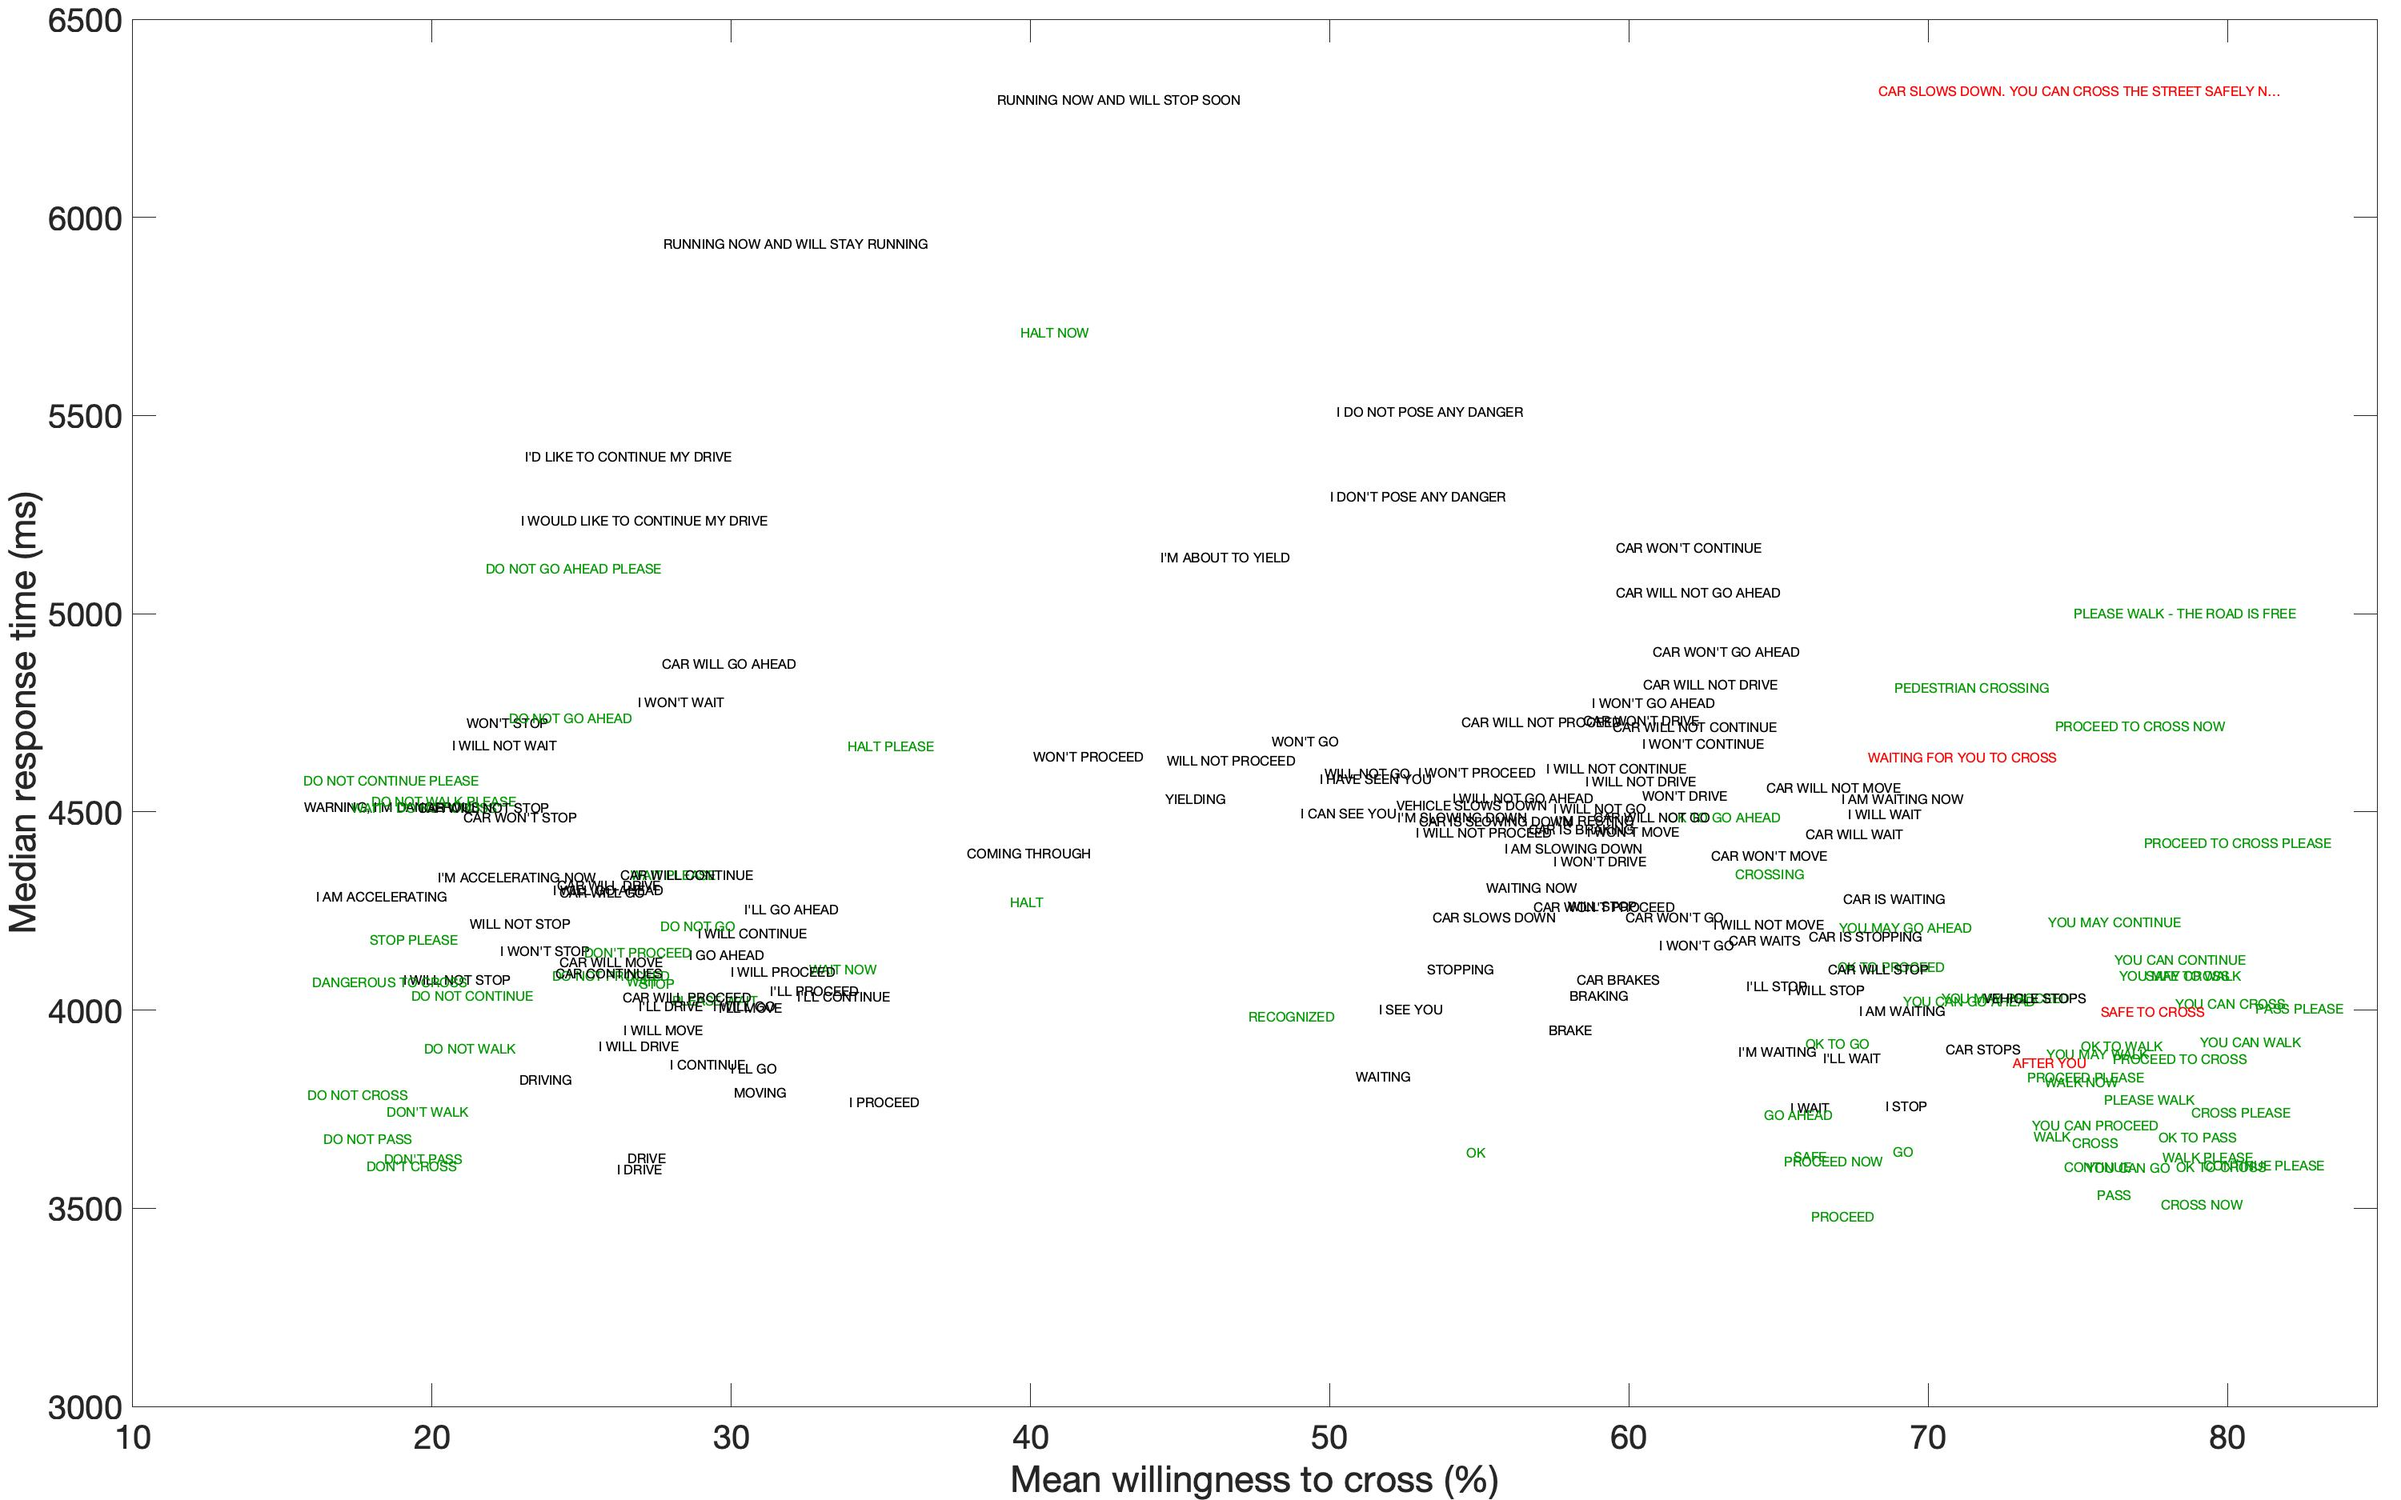
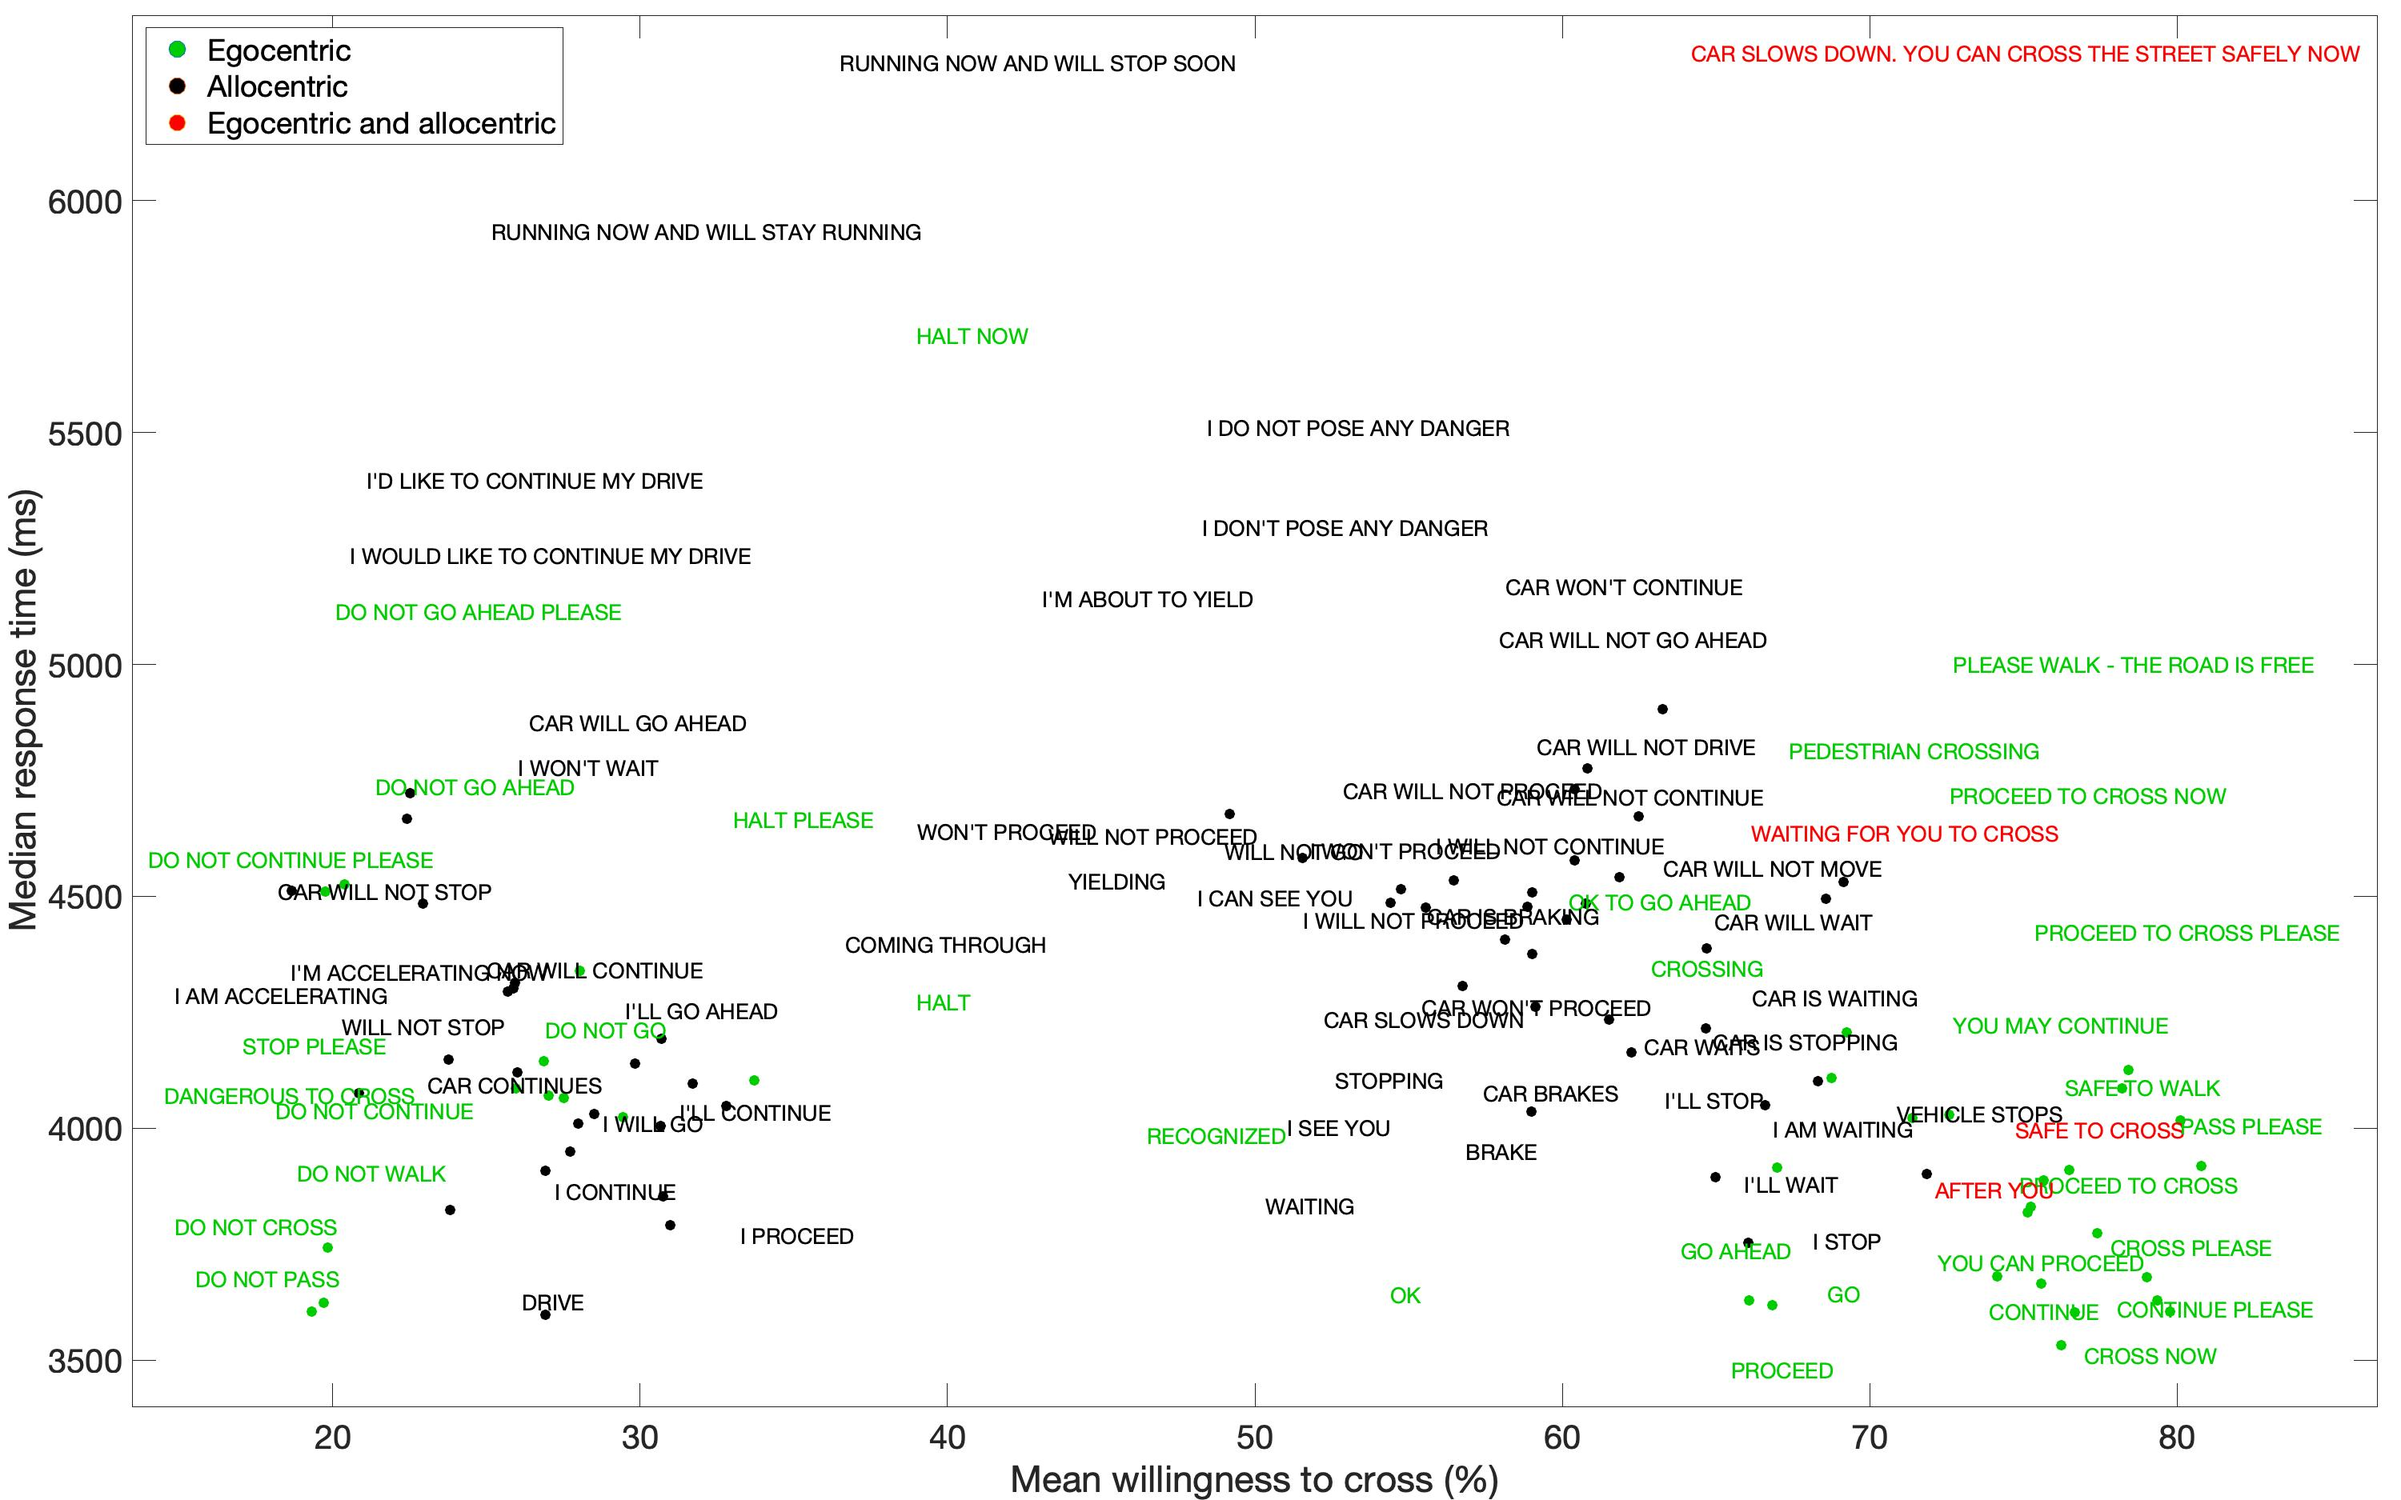
Formatting and updated figures

diff --git a/textehmi/analysis/analysis.m b/textehmi/analysis/analysis.m
@@ -62,6 +62,7 @@ mapping = readtable(config.mapping);
 %% ************************************************************************
 set(0, 'DefaultFigurePosition', [5 60  1920/2 1080/2]);
 opengl hardware
+
 %% Prepare data
 RT = X(:, 27:106);       % time used to press the key
 RP = X(:, 107:186);      % response from the slider
@@ -74,7 +75,6 @@ for i=1:size(RP,1) % loop over pp
     RPo(i,imageid(i,:)+1)=RP(i,:);
     RTo(i,imageid(i,:)+1)=RT(i,:);
 end
-
 % Median willingness to cross
 [RPoMed,RPoMedVE,RPoMedUS,RToMedVE,RToMedUS]=deal(NaN(N_STIMULI,1));
 for i=1:size(RPo,2)
@@ -91,7 +91,6 @@ for i=1:size(RPo,2)
 end
 [RPoMedSorted,b]=sort(RPoMed);
 eHMI_text_MedSorted=char(eHMI_text{b,:});
-
 % Mean willingness to cross
 [RPoMean,RPoMeanVE,RPoMeanUS,RToMeanVE,RToMeanUS,o,NN]=deal(NaN(N_STIMULI,1));
 for i=1:size(RPo,2)
@@ -108,7 +107,6 @@ for i=1:size(RPo,2)
 end
 [RPoMeanSorted,b]=sort(RPoMean);
 eHMI_text_MeanSorted=char(eHMI_text{b,:});
-
 % STD willingness to cross
 RPoSTD=deal(NaN(N_STIMULI,1));
 for i=1:size(RPo,2)
@@ -116,7 +114,6 @@ for i=1:size(RPo,2)
 end
 [RPoSTDSorted, bs]=sort(RPoSTD);
 eHMI_text_STDSorted=char(eHMI_text{bs,:});
-
 % Types of eHMIs
 ego=find(mapping{:,7}==1 & mapping{:,8}==0);
 allo=find(mapping{:,7}==0 & mapping{:,8}==1);
@@ -163,12 +160,12 @@ set(gca, 'xlim', [-1 N_STIMULI+1], ...
     'tickdir', 'out', ...
     'ylim', [0 100], ...
     'xtick', [1:1:N_STIMULI], ...
-    'xticklabel', eHMI_text_MedSorted)
+    'xticklabel', eHMI_text_MedSorted, ...
+    'LooseInset',[0.01 0.01 0.01 0.01])
 xlabel('eHMI');
 ylabel('Median willingness to cross (%)')
 h=findobj('FontName','Helvetica');
 set(h,'FontSize',8,'Fontname','Arial')
-set(gca,'LooseInset',[0.01 0.01 0.01 0.01])
 % maximise and export as eps and jpg (for readme)
 if config.save_figures
     export_figure(gcf, [config.path_output filesep 'figures' ...
@@ -230,7 +227,8 @@ if config.save_figures
     export_figure(gcf, [config.path_figures filesep 'mean-cross'], 'jpg')
 end
 
-%% Text scatter plot of English-text eHMIs. Mean willingness to cross and median response time
+%% Text scatter plot of English-text eHMIs. Mean willingness to cross vs
+% median response time
 figure;hold on;box on
 cd=NaN(size(RPo,2),3);
 cd(ego,:)=repmat([0 0.8 0], length(ego), 1);
@@ -253,7 +251,8 @@ set(gca, 'Fontsize', 20, ...
     'LooseInset', [0.01 0.01 0.01 0.01], ...
     'xlim', [13.5 86.5], ...
     'ylim', [3400 6400])
-legend('Egocentric','Allocentric','Egocentric and allocentric','location','northwest')
+legend('Egocentric', 'Allocentric', 'Egocentric and allocentric', ...
+       'location','northwest')
 % maximise and export as eps and jpg (for readme)
 if config.save_figures
     export_figure(gcf, [config.path_output filesep 'figures' ...
@@ -261,7 +260,9 @@ if config.save_figures
     export_figure(gcf, [config.path_figures ...
                         filesep 'median-cross-response-time'], 'jpg')
 end
-%% Text scatter plot of English-text eHMIs. Mean vs SD willingness to cross and median response time
+
+%% Text scatter plot of English-text eHMIs. Mean vs SD willingness to cross
+% and median response time
 figure;hold on;box on
 cd=NaN(180,3);
 cd(ego,:)=repmat([0 0.8 0], length(ego), 1);
@@ -283,13 +284,14 @@ ylabel('\it{SD}\rm willingness to cross (%)');
 set(gca, 'Fontsize', 20, ...
     'LooseInset', [0.01 0.01 0.01 0.01], ...
     'xlim', [13.5 86.5])
-legend('Egocentric','Allocentric','Egocentric and allocentric','location','southwest')
+legend('Egocentric', 'Allocentric', 'Egocentric and allocentric', ...
+       'location', 'southwest')
 % maximise and export as eps and jpg (for readme)
 if config.save_figures
     export_figure(gcf, [config.path_output filesep 'figures' ...
-                        filesep 'median-cross-response-time'], 'epsc')
+                        filesep 'median-cross-sd-cross'], 'epsc')
     export_figure(gcf, [config.path_figures ...
-                        filesep 'median-cross-response-time'], 'jpg')
+                        filesep 'median-cross-sd-cross'], 'jpg')
 end
 
 %% Response time USA/VEN
@@ -319,8 +321,7 @@ xlabel('Median response time - participants from USA');
 ylabel('Median response time - participants from Venezuela');
 h=findobj('FontName', 'Helvetica');
 set(h, 'FontSize', 20, 'Fontname','Arial')
-set(gca, ...
-    'LooseInset', [0.01 0.01 0.01 0.01], ...
+set(gca, 'LooseInset', [0.01 0.01 0.01 0.01], ...
     'xlim', [2500 5500], ...
     'ylim', [3000 7000])
 % maximise and export as eps and jpg (for readme)
@@ -346,10 +347,8 @@ xlabel('Number of characters');
 ylabel('Median response time');
 h=findobj('FontName', 'Helvetica');
 set(h, 'FontSize', 20, 'Fontname', 'Arial')
-set(gca, ...
-    'LooseInset', [0.01 0.01 0.01 0.01], ...
+set(gca, 'LooseInset', [0.01 0.01 0.01 0.01], ...
     'ylim', [3000 6500])
-%axis equal
 % maximise and export as eps and jpg (for readme)
 if config.save_figures
     export_figure(gcf, [config.path_output filesep 'figures' ...
@@ -394,8 +393,7 @@ xlabel('Mean willingness to cross - eHMI in English');
 ylabel('Mean willingness to cross - eHMI in Spanish');
 h=findobj('FontName', 'Helvetica');
 set(h,'FontSize', 20, 'Fontname', 'Arial')
-set(gca, ...
-    'LooseInset', [0.01 0.01 0.01 0.01], ...
+set(gca, 'LooseInset', [0.01 0.01 0.01 0.01], ...
     'xlim', [0 100], ...
     'ylim', [0 100], ...
     'pos', [0.25 0.08 0.5 0.9])
@@ -409,7 +407,6 @@ end
 
 %% Correlation matrix and plot
 % fetch relevant columns from X for correlation matrix 
-
 CMATR = X(:,[2:4 6:17]);
 % compute correlations
 [c_CMATR, p_CMATR] = corr(CMATR, 'type', 'spearman', 'rows', 'pairwise');

diff --git a/README.md b/README.md
@@ -39,7 +39,10 @@ Data from appen is anonymised in the following way:
 Figures are saved in `text-crowdsourced/_output/figures`.
 
 ![median willingness to cross response time](https://github.com/bazilinskyy/text-crowdsourced/blob/main/figures/median-cross-response-time.jpg?raw=true)
-Median willingness to cross over median response time. Colours denote the type of eHMIs: black=allocentric, green=egocentric, red=other.
+Median willingness to cross over median response time. Colours denote the type of eHMIs: green=egocentric, black=allocentric, red=egocentric and allocentric.
+
+![median willingness to cross sd willingness to cross](https://github.com/bazilinskyy/text-crowdsourced/blob/main/figures/median-cross-sd-cross.jpg?raw=true)
+Median willingness to cross over SD willingness to cross. Colours denote the type of eHMIs: green=egocentric, black=allocentric, red=egocentric and allocentric.
 
 ![ehmis in english and spanish](https://github.com/bazilinskyy/text-crowdsourced/blob/main/figures/median-cross-en-es.jpg?raw=true)
 Median willingness to cross for eHMIs presented in both English and Spanish.
@@ -62,7 +65,7 @@ Median willingness related to the length of the eHMI.
 ![correlation plot](https://github.com/bazilinskyy/text-crowdsourced/blob/main/figures/corrplot.jpg?raw=true)
 Correlation plot.
 
-CSV files with eHMIs sorted by median/mean/STD willingness to cross are saved in `text-crowdsourced/_output`.
+CSV files with eHMIs sorted by median/mean/SD willingness to cross are saved in `text-crowdsourced/_output`.
 
 ### Configuration of analysis
 Configuration of analysis needs to be defined in `text-crowdsourced/config`. Please use the `default.config` file for the required structure of the file. If no custom config file is provided, `default.config` is used. The config file has the following parameters:
